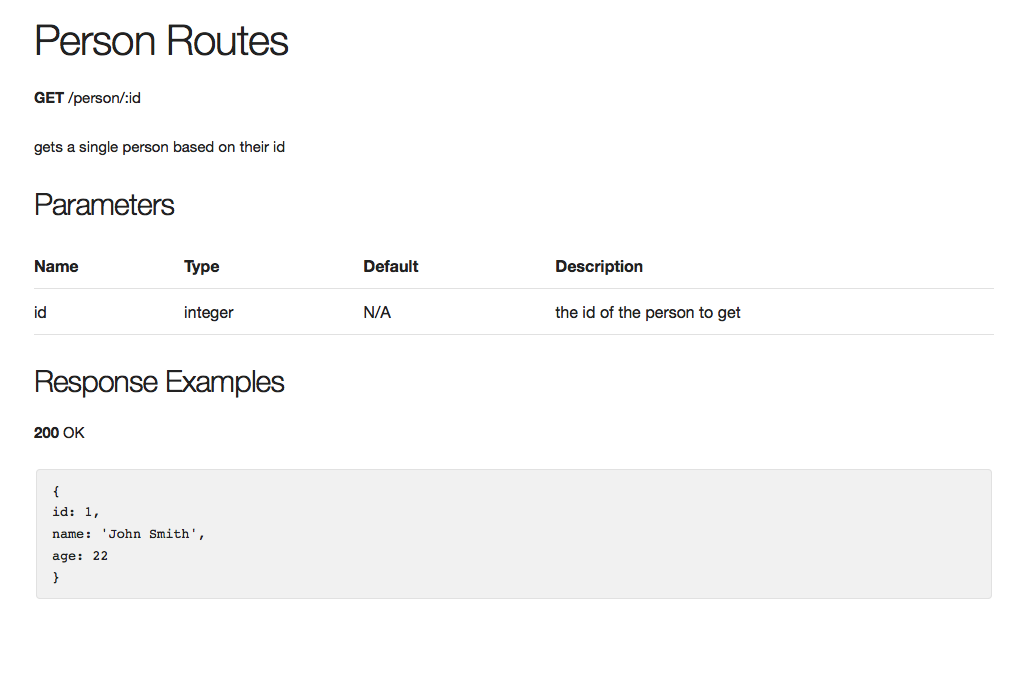
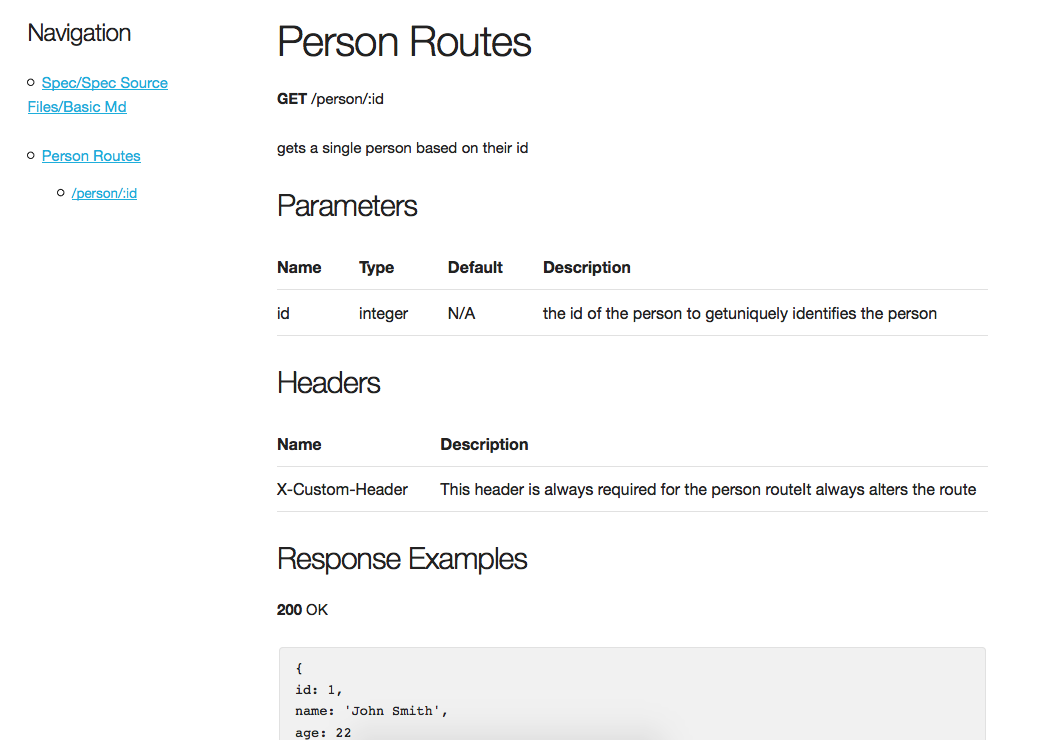
Added more documentation.

diff --git a/lib/rain.rb b/lib/rain.rb
@@ -6,6 +6,9 @@ require 'fileutils'
 class Rain::CLI < Thor
 	@@docs = []
 
+	# loops through all of the specified source
+	# files, parses them line by line and produces
+	# doc and docpart output
 	desc "generate [file/sources/**]", "Generates the rain documentation"
 	method_option :log_parse, aliases: "--lp", desc: "Show the output of each line parse."
 	method_option :parse_signatures, aliases: "--s", desc: "Parse method and class documentation too. Defaults to false."
@@ -23,6 +26,7 @@ class Rain::CLI < Thor
 
 		print "\nBuilding html output... \n"
 		build_html
+		print "\nDone! See rain_out/ directory for output.\n"
 	end
 
 	# define the ascii art for the help command
@@ -39,6 +43,9 @@ class Rain::CLI < Thor
 		print "              \n"
 		print "basic usage:\n"
 		print "  rain generate file/**/*.rb\n"
+		print "options:\n"
+		print "  --lp logs all line parsing output to console\n"
+		print "  --s  generates docs for methods and class signatures\n"
 	end
 
 	no_commands do

diff --git a/README.md b/README.md
@@ -54,26 +54,36 @@ There are several different tags that can be used in Rain. Here are their descri
 - header - A HTTP header that is required for the route.
 
 ```ruby
-# These are the docs that are not related
-# to any tags
-# 
-# {title This is the title}
+# gets a single person based on their id
+#
 # {method GET}
 # {route /person/:id}
-#
+# {param id integer}
+#   the id of the person to get
+#   uniquely identifies the person
+# {/param}
+# {header X-Custom-Header}
+#   This header is always required for the person route
+#   It always alters the route
+# {/header}
 # {response 200 ok}
 # {
-#   a: 1
+#   id: 1,
+#   name: 'John Smith',
+#   age: 22
 # }
 # {/response}
-# 
-# {param id integer default_value}
-#   This is the param description
-# {/param}
-# get '/person/:id' do
 ```
 
+# Contributing
+You can open issues and pull requests in this repository for feature requests or fixes for Rain. See the class structure in the next section for an idea of how everything works together.
+
+Rspec is used for the test framework, and all tests (along with sample files) are located under spec/. There is a full suite of > 50 tests but there is still room for more coverage.
+
 ## Class Structure
+
+Rain::CLI
+- Inherits from Thor for command-line interface
 
 Rain::Doc
 - handles looping through files
